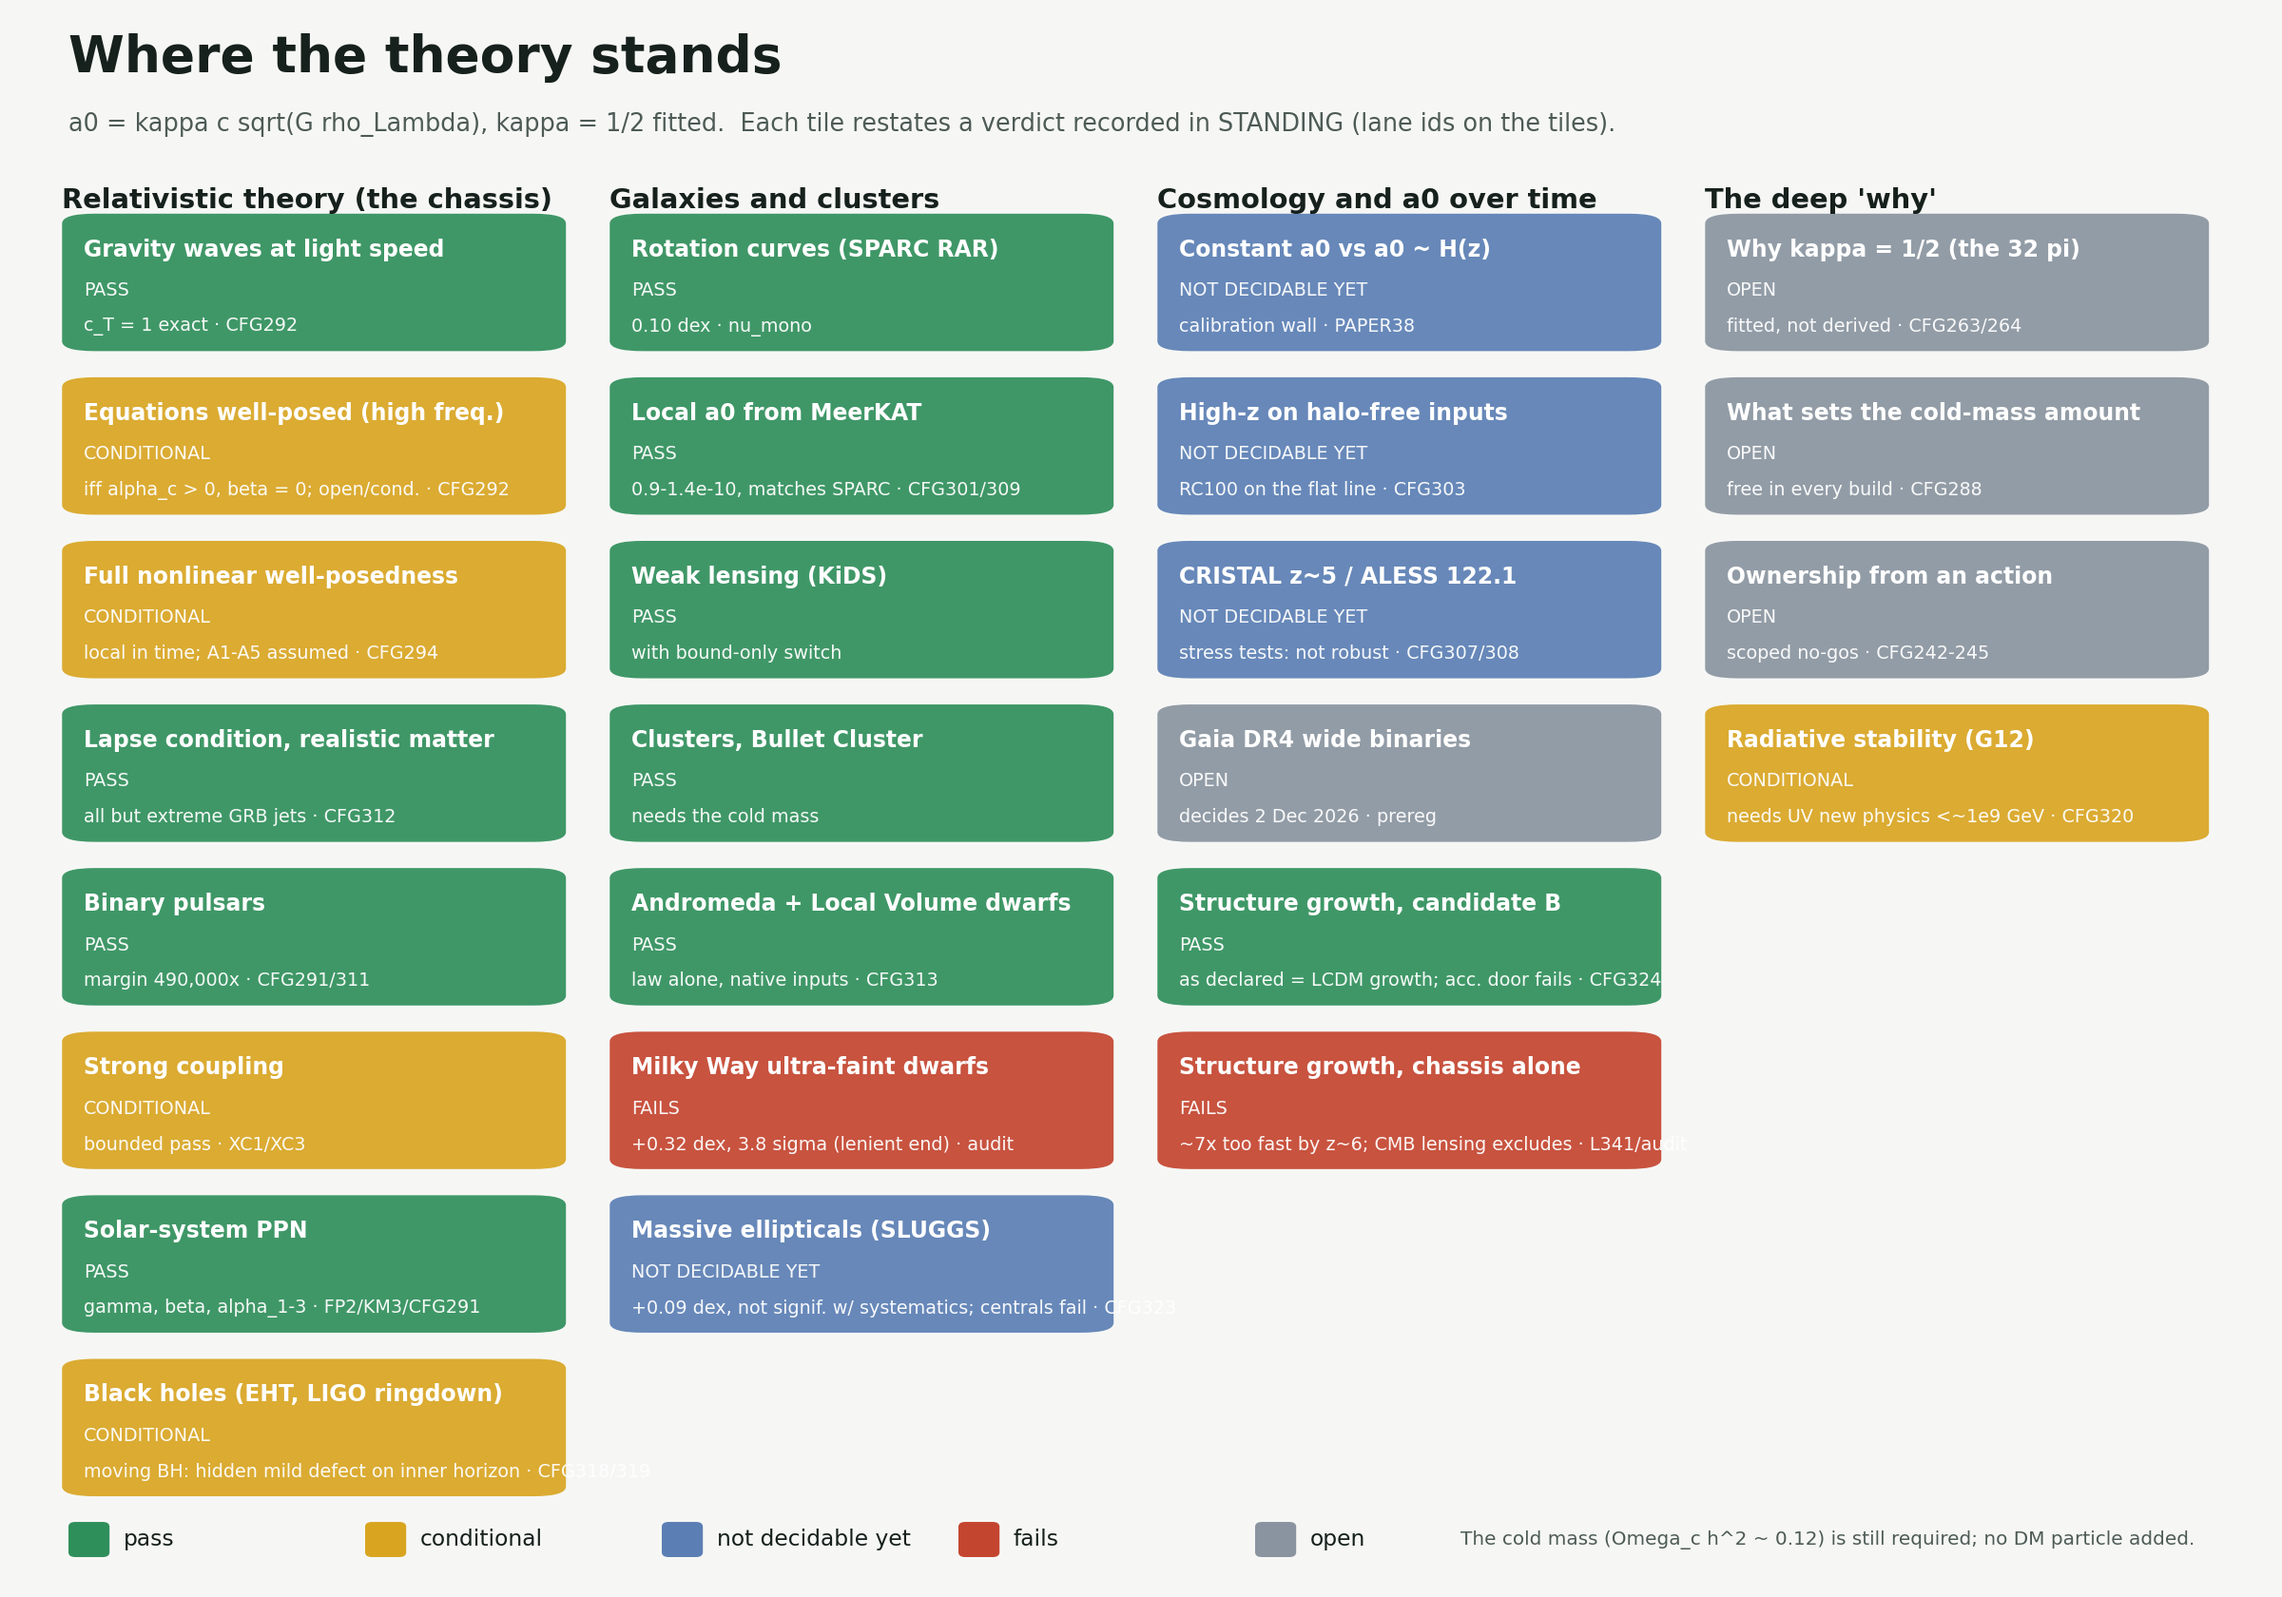
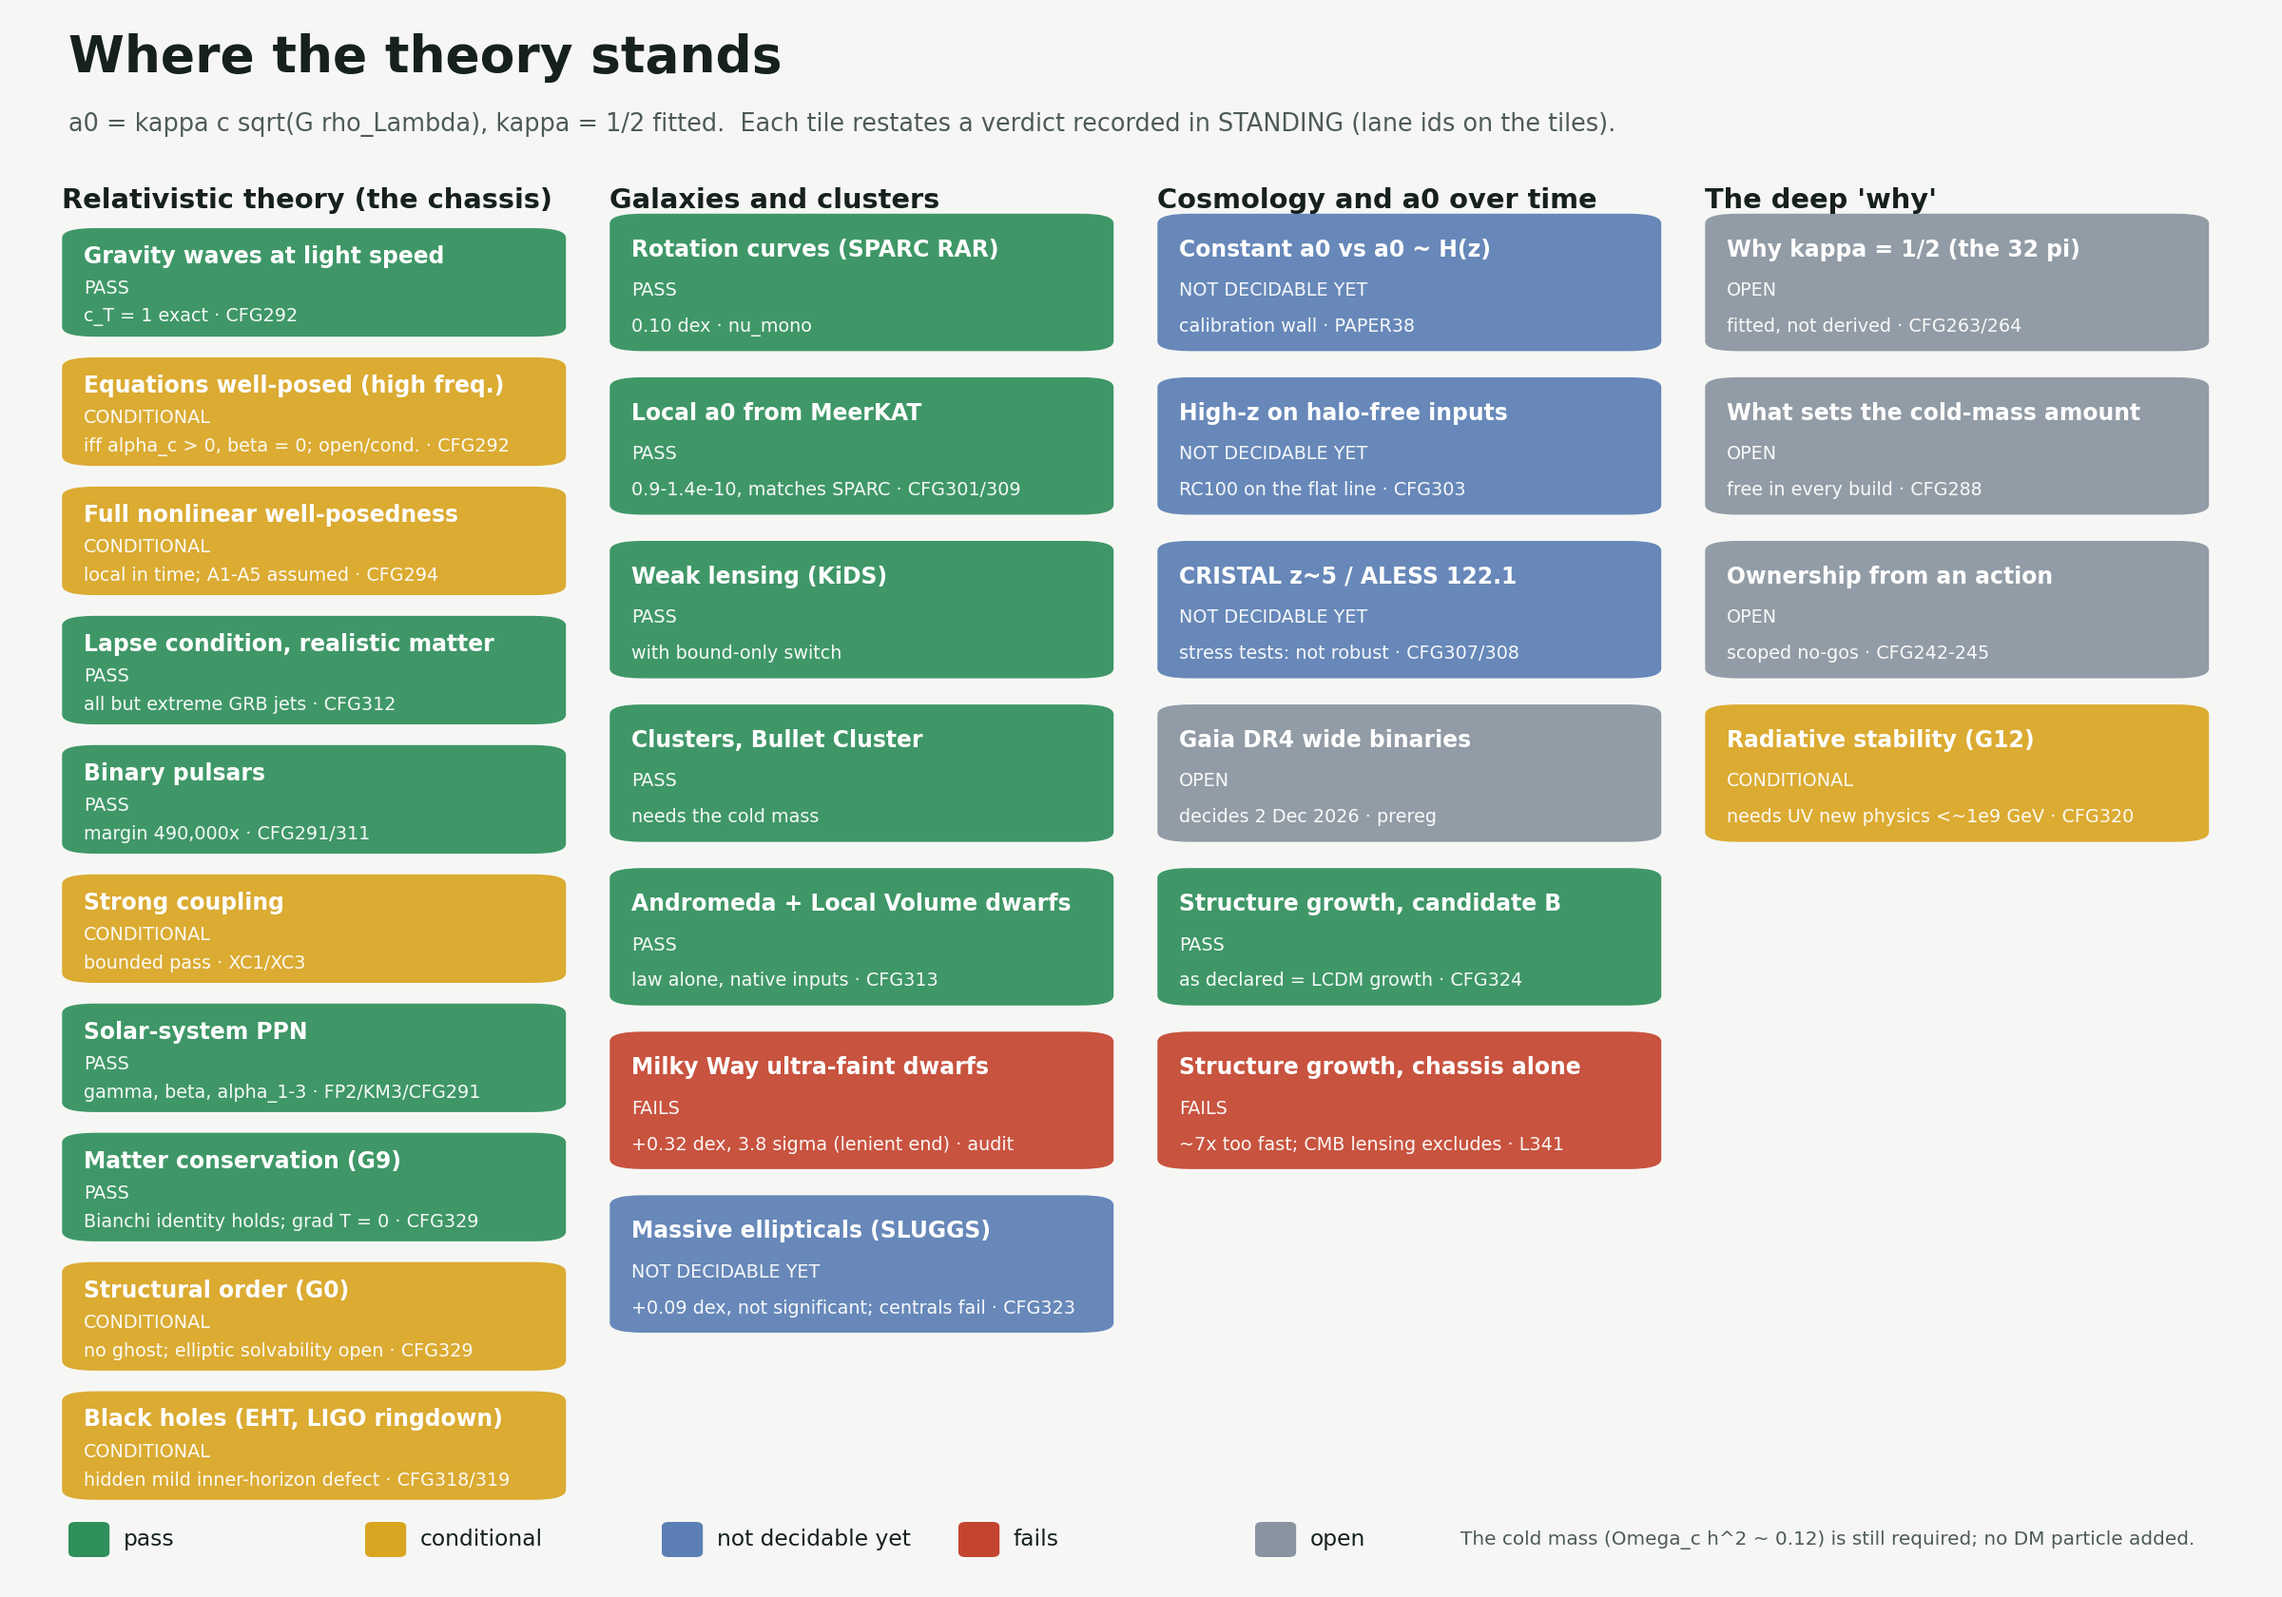
Status picture: G9 (pass) and G0 (conditional) tiles added from CFG329; columns auto-compress; long notes shortened.

diff --git a/campaign_fresh_gravity/closure_map/status_picture_2026_10_03.py b/campaign_fresh_gravity/closure_map/status_picture_2026_10_03.py
@@ -20,7 +20,9 @@ groups = [
         ("Binary pulsars", "PASS", "margin 490,000x · CFG291/311"),
         ("Strong coupling", "COND", "bounded pass · XC1/XC3"),
         ("Solar-system PPN", "PASS", "gamma, beta, alpha_1-3 · FP2/KM3/CFG291"),
-        ("Black holes (EHT, LIGO ringdown)", "COND", "moving BH: hidden mild defect on inner horizon · CFG318/319"),
+        ("Matter conservation (G9)", "PASS", "Bianchi identity holds; grad T = 0 · CFG329"),
+        ("Structural order (G0)", "COND", "no ghost; elliptic solvability open · CFG329"),
+        ("Black holes (EHT, LIGO ringdown)", "COND", "hidden mild inner-horizon defect · CFG318/319"),
     ]),
     ("Galaxies and clusters", [
         ("Rotation curves (SPARC RAR)", "PASS", "0.10 dex · nu_mono"),
@@ -29,15 +31,15 @@ groups = [
         ("Clusters, Bullet Cluster", "PASS", "needs the cold mass"),
         ("Andromeda + Local Volume dwarfs", "PASS", "law alone, native inputs · CFG313"),
         ("Milky Way ultra-faint dwarfs", "FAIL", "+0.32 dex, 3.8 sigma (lenient end) · audit"),
-        ("Massive ellipticals (SLUGGS)", "UNDEC", "+0.09 dex, not signif. w/ systematics; centrals fail · CFG323"),
+        ("Massive ellipticals (SLUGGS)", "UNDEC", "+0.09 dex, not significant; centrals fail · CFG323"),
     ]),
     ("Cosmology and a0 over time", [
         ("Constant a0 vs a0 ~ H(z)", "UNDEC", "calibration wall · PAPER38"),
         ("High-z on halo-free inputs", "UNDEC", "RC100 on the flat line · CFG303"),
         ("CRISTAL z~5 / ALESS 122.1", "UNDEC", "stress tests: not robust · CFG307/308"),
         ("Gaia DR4 wide binaries", "OPEN", "decides 2 Dec 2026 · prereg"),
-        ("Structure growth, candidate B", "PASS", "as declared = LCDM growth; acc. door fails · CFG324"),
-        ("Structure growth, chassis alone", "FAIL", "~7x too fast by z~6; CMB lensing excludes · L341/audit"),
+        ("Structure growth, candidate B", "PASS", "as declared = LCDM growth · CFG324"),
+        ("Structure growth, chassis alone", "FAIL", "~7x too fast; CMB lensing excludes · L341"),
     ]),
     ("The deep 'why'", [
         ("Why kappa = 1/2 (the 32 pi)", "OPEN", "fitted, not derived · CFG263/264"),
@@ -56,13 +58,14 @@ fig.text(0.03, 0.918, "a0 = kappa c sqrt(G rho_Lambda), kappa = 1/2 fitted.  Eac
 for gi, (title, items) in enumerate(groups):
     x0 = gi
     ax.text(x0 + 0.03, 7.95, title, fontsize=13, fontweight="bold", color="#16201d", va="center")
+    st_ = min(1.0, 7.9 / len(items))          # vertical step shrinks for long columns
     for k, (name, st, note) in enumerate(items):
-        y = 7.45 - k * 1.0
-        ax.add_patch(FancyBboxPatch((x0 + 0.03, y - 0.42), 0.92, 0.84, boxstyle="round,pad=0.0,rounding_size=0.06",
+        y = 7.45 - k * st_
+        ax.add_patch(FancyBboxPatch((x0 + 0.03, y - 0.42 * st_), 0.92, 0.84 * st_, boxstyle="round,pad=0.0,rounding_size=0.06",
                                     facecolor=COL[st], edgecolor="none", alpha=0.92))
-        ax.text(x0 + 0.07, y + 0.2, name, fontsize=10.6, fontweight="bold", color="white", va="center")
-        ax.text(x0 + 0.07, y - 0.05, LAB[st].upper(), fontsize=8.6, color="white", va="center", alpha=0.95)
-        ax.text(x0 + 0.07, y - 0.27, note, fontsize=8.6, color="white", va="center", alpha=0.95)
+        ax.text(x0 + 0.07, y + 0.2 * st_, name, fontsize=10.6, fontweight="bold", color="white", va="center")
+        ax.text(x0 + 0.07, y - 0.05 * st_, LAB[st].upper(), fontsize=8.6, color="white", va="center", alpha=0.95)
+        ax.text(x0 + 0.07, y - 0.27 * st_, note, fontsize=8.6, color="white", va="center", alpha=0.95)
 # legend
 lx = 0.03
 for st in ("PASS", "COND", "UNDEC", "FAIL", "OPEN"):
